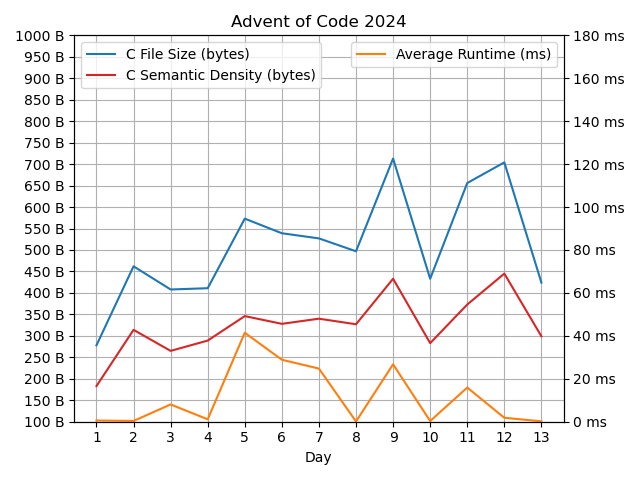
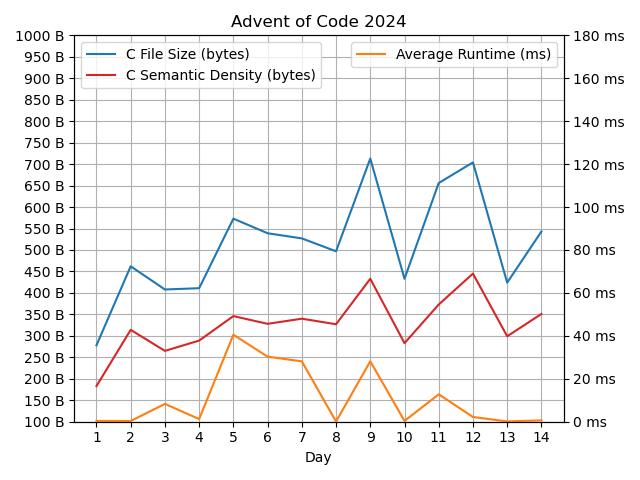
header stuff + d14

diff --git a/a.h b/a.h
@@ -13,6 +13,7 @@
 
 // Types
 typedef int I;
+typedef unsigned UI;
 typedef short T;
 typedef long L;
 typedef FILE * Fp;
@@ -96,6 +97,14 @@ _VEC_DECL_TYPE(C, 2); // v2C
 #define Fisum(n,i,a...) ({ typeof(i) _v = i; Fi(n, _v += ({a;})); _v; })
 #define Fjsum(n,j,a...) ({ typeof(j) _v = j; Fj(n, _v += ({a;})); _v; })
 #define F2dsum(n,i,a...) ({ typeof(i) _v = i; F2d(n, _v += ({a;})); _v; })
+#define Fiprod(n,i,a...) ({ typeof(i) _v = i; Fi(n, _v *= ({a;})); _v; })
+#define Fjprod(n,j,a...) ({ typeof(j) _v = j; Fj(n, _v *= ({a;})); _v; })
+#define F2dprod(n,i,a...) ({ typeof(i) _v = i; F2d(n, _v *= ({a;})); _v; })
+
+#define Fimin(n,i,a...) ({ typeof(i) _v = i; Fi(n, _v = MIN(_v, ({a;}))); _v; })
+#define Fimax(n,i,a...) ({ typeof(i) _v = i; Fi(n, _v = MAX(_v, ({a;}))); _v; })
+#define Fimini(n,id,a...) ({ typeof(id) _m = id, _t; I _mi = -1; Fi(n, _t = ({a;}); I(_t < _m, _m = _t, _mi = i)); _mi; })
+#define Fimaxi(n,id,a...) ({ typeof(id) _m = id, _t; I _mi = -1; Fi(n, _t = ({a;}); I(_t > _m, _m = _t, _mi = i)); _mi; })
 
 // Swap
 #define SWAP_internal(a,b,_t) { typeof(a) _t = a; a = b; b = _t; }
@@ -125,10 +134,11 @@ S V barrier() { asm volatile("mfence" ::: "memory"); }
   Fi(P, Fj(P, g[i][j] = getc(f); a) getc(f))
 #define LINESF(P,f,a...) C buf[P], * p; W(p = fgets(buf, P, f), a)
 
-// Min/max/signum
+// Min/max/signum/remainder
 #define MAX(a,b) ((a) > (b) ? (a) : (b))
 #define MIN(a,b) ((a) < (b) ? (a) : (b))
-#define sgn(x) ((x > 0) - (x < 0))
+#define SGN(x) ((x > 0) - (x < 0))
+#define REM(x,y) ((x % y + y) % y)
 
 // Regex stuff
 #define regcomp(r, e) regcomp(&r, e, REG_EXTENDED)
@@ -152,7 +162,7 @@ S C * slurp(C * n) {
 S V resi(I t1, I t2) { printf("T1: %d, T2: %d\n", t1, t2); }
 S V resl(L t1, L t2) { printf("T1: %ld, T2: %ld\n", t1, t2); }
 
-L ilog10l(L n)_(L r = 0; W (n > 0, n /= 10; r++) r)
+S L ilog10l(L n)_(L r = 0; W (n > 0, n /= 10; r++) r)
 
 S v2I dir8[8] = {
   {-1, -1}, {-1, 0}, {-1, 1}, {0, -1}, {0, 1}, {1, -1}, {1, 0}, {1, 1}
@@ -160,6 +170,9 @@ S v2I dir8[8] = {
 S v2I dir4cw[4] = {
   {-1, 0}, {0, 1}, {1, 0}, {0, -1}
 };
+
+S I mod_inv(I a, I m)_(a %= m; Fx(m, I((a * x) % m == 1, R x)) 1)
+S I isnum(C c)_(isdigit(c) || c == '-')
 
 #endif
 

diff --git a/d14.c b/d14.c
@@ -1,0 +1,10 @@
+#include"a.h"
+I r[500][4], i, c[3][3], d[103], W = 101, H = 103; M(Fp f = fget("d14.txt");
+  LINESF(99, f, W(*p, I(isnum(*p), r[i/4][i++%4] = strtol(p, &p, 10)) p++))
+  Fi(500, c[SGN(REM(r[i][0] + 100 * r[i][2], W) - 50) + 1]
+           [SGN(REM(r[i][1] + 100 * r[i][3], H) - 51) + 1]++)
+  #define MOD_M(x, a, b) \
+    Fimini(x, ~0U, ZM(d); Fj(500, d[REM(r[j][a] + i * r[j][b], x)] = 1) \
+      Fisum(x, 0, d[i]))
+  I t = MOD_M(W, 0, 2) * H*mod_inv(H, W) + MOD_M(H, 1, 3) * W*mod_inv(W, H);
+  resi(F2dprod(2, 1, c[i * 2][j * 2]), t % (W * H)))

diff --git a/d02.c b/d02.c
@@ -6,6 +6,6 @@ I z, t1, t2; M(Fp f = fget("d02.txt"); I n, d, c, s[16];
   Fi(z, Fj(15, c = -1;
     #define D(f, n) f(x[n] - x[n - 1])
     Fy(xl[i], I(y != j - 1, x[++c] = in[i][y]))
-    Fy(c, s[y] = D(sgn, y + 1)) s[c] = s[c - 1];
+    Fy(c, s[y] = D(SGN, y + 1)) s[c] = s[c - 1];
     I(Fall(y, 1, c+1, s[y] == s[y - 1] && C3(1,<=,D(abs, y),<=,3)),
       I(!j, t1++) E(t2++; B)))) resi(t1, t2))
